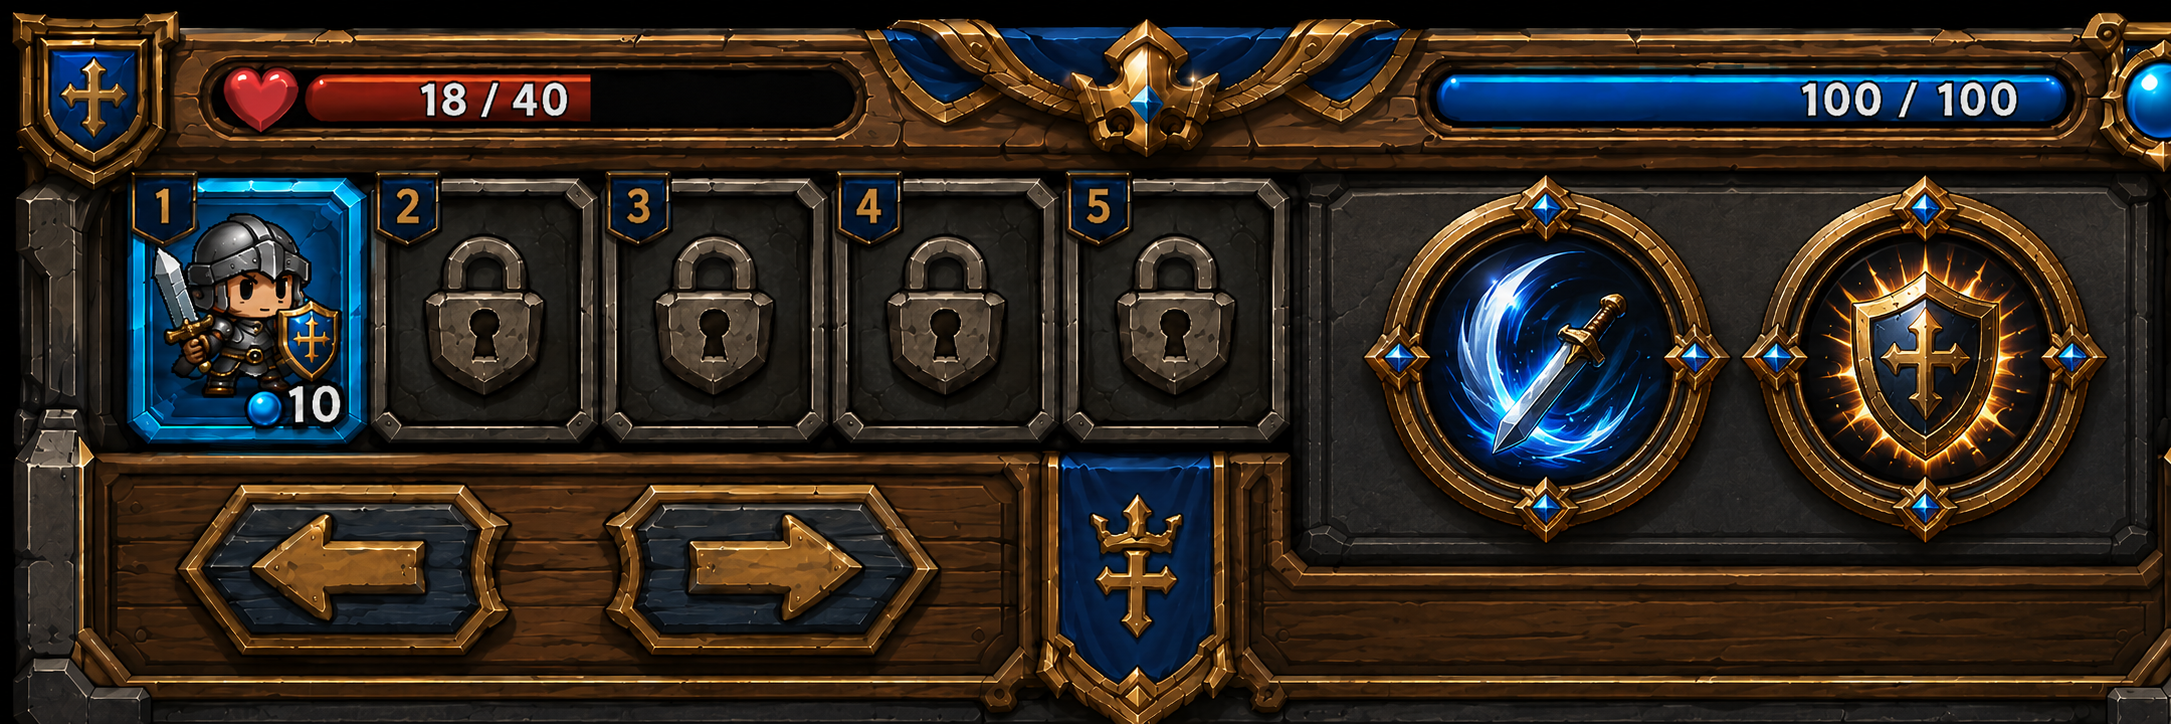
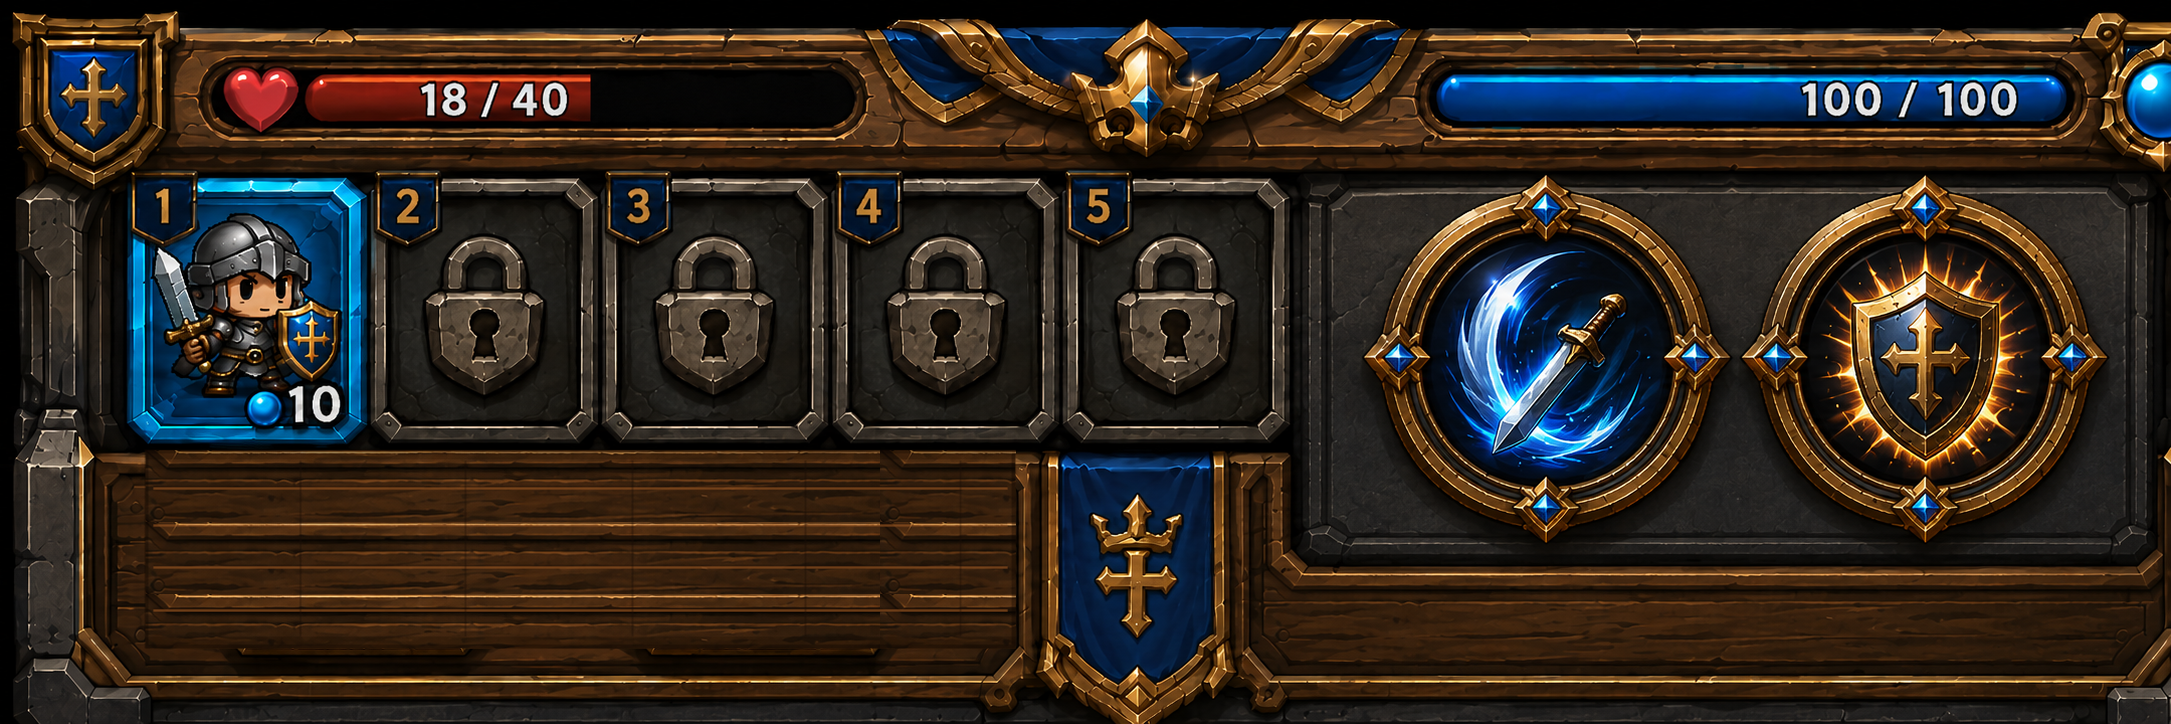
화살표시버튼 삭제3

Changed region(s): [[0.0617, 0.6077, 0.4629, 0.9116]]

diff --git a/style.css b/style.css
@@ -580,46 +580,6 @@ canvas {
   pointer-events: none;
 }
 
-.battle-arrow-btn {
-  display: none;
-  position: absolute;
-  pointer-events: none;
-  bottom: 22px;
-  width: 123px;
-  height: 39px;
-  border: 0;
-  background: transparent;
-  box-shadow: none;
-}
-
-.arrow-left {
-  left: 59px;
-}
-
-.arrow-right {
-  left: 226px;
-}
-
-.battle-arrow-btn span {
-  display: none;
-}
-
-.battle-arrow-btn span::before {
-  display: none;
-}
-
-.arrow-left span::before {
-  left: -18px;
-  border-right: 0;
-  border-top: 0;
-}
-
-.arrow-right span::before {
-  right: -18px;
-  border-left: 0;
-  border-bottom: 0;
-}
-
 .battle-round-group {
   position: absolute;
   pointer-events: auto;
@@ -907,25 +867,6 @@ canvas {
     right: 0;
     bottom: 0;
     height: 112px;
-  }
-
-  .battle-arrow-btn {
-    bottom: 16px;
-    width: 67px;
-    height: 28px;
-  }
-
-  .arrow-left {
-    left: 38px;
-  }
-
-  .arrow-right {
-    left: 141px;
-  }
-
-  .battle-arrow-btn span {
-    width: 45px;
-    height: 13px;
   }
 
   .battle-round-group {

diff --git a/js/main.js b/js/main.js
@@ -175,8 +175,6 @@ if (startBtn) startBtn.addEventListener("click", () => startGame(selectedStage))
 if (gameOptionsBtn) gameOptionsBtn.addEventListener("click", toggleGameOptionsMenu);
 if (optionStageSelectBtn) optionStageSelectBtn.addEventListener("click", handleOptionStageSelect);
 if (optionRestartBtn) optionRestartBtn.addEventListener("click", handleOptionRestart);
-bindHoldMovementButton(moveLeftBtn, "ArrowLeft");
-bindHoldMovementButton(moveRightBtn, "ArrowRight");
 titleStartBtn.addEventListener("click", showLobby);
 if (lobbyBattleBtn) lobbyBattleBtn.addEventListener("click", showStageSelect);
 if (lobbyShopBtn) lobbyShopBtn.addEventListener("click", showShop);

diff --git a/index.html b/index.html
@@ -425,8 +425,6 @@
         </div>
 
         <div class="battle-command-bottom">
-          <button id="moveLeftBtn" class="battle-arrow-btn arrow-left" type="button" aria-label="왼쪽 이동"><span aria-hidden="true"></span></button>
-          <button id="moveRightBtn" class="battle-arrow-btn arrow-right" type="button" aria-label="오른쪽 이동"><span aria-hidden="true"></span></button>
           <div class="battle-round-group">
             <button id="skillBtn" class="zeus-action-btn zeus-basic-btn" type="button" aria-label="제우스 기본공격">
               <span class="zeus-action-icon basic" aria-hidden="true"></span>

diff --git a/js/core.js b/js/core.js
@@ -17,8 +17,6 @@ const gameOptionsBtn = document.getElementById("gameOptionsBtn");
 const gameOptionsMenu = document.getElementById("gameOptionsMenu");
 const optionStageSelectBtn = document.getElementById("optionStageSelectBtn");
 const optionRestartBtn = document.getElementById("optionRestartBtn");
-const moveLeftBtn = document.getElementById("moveLeftBtn");
-const moveRightBtn = document.getElementById("moveRightBtn");
 const startBtn = document.getElementById("startBtn");
 const restartBtn = document.getElementById("restartBtn");
 const summonGuardBtn = document.getElementById("summonGuardBtn");
